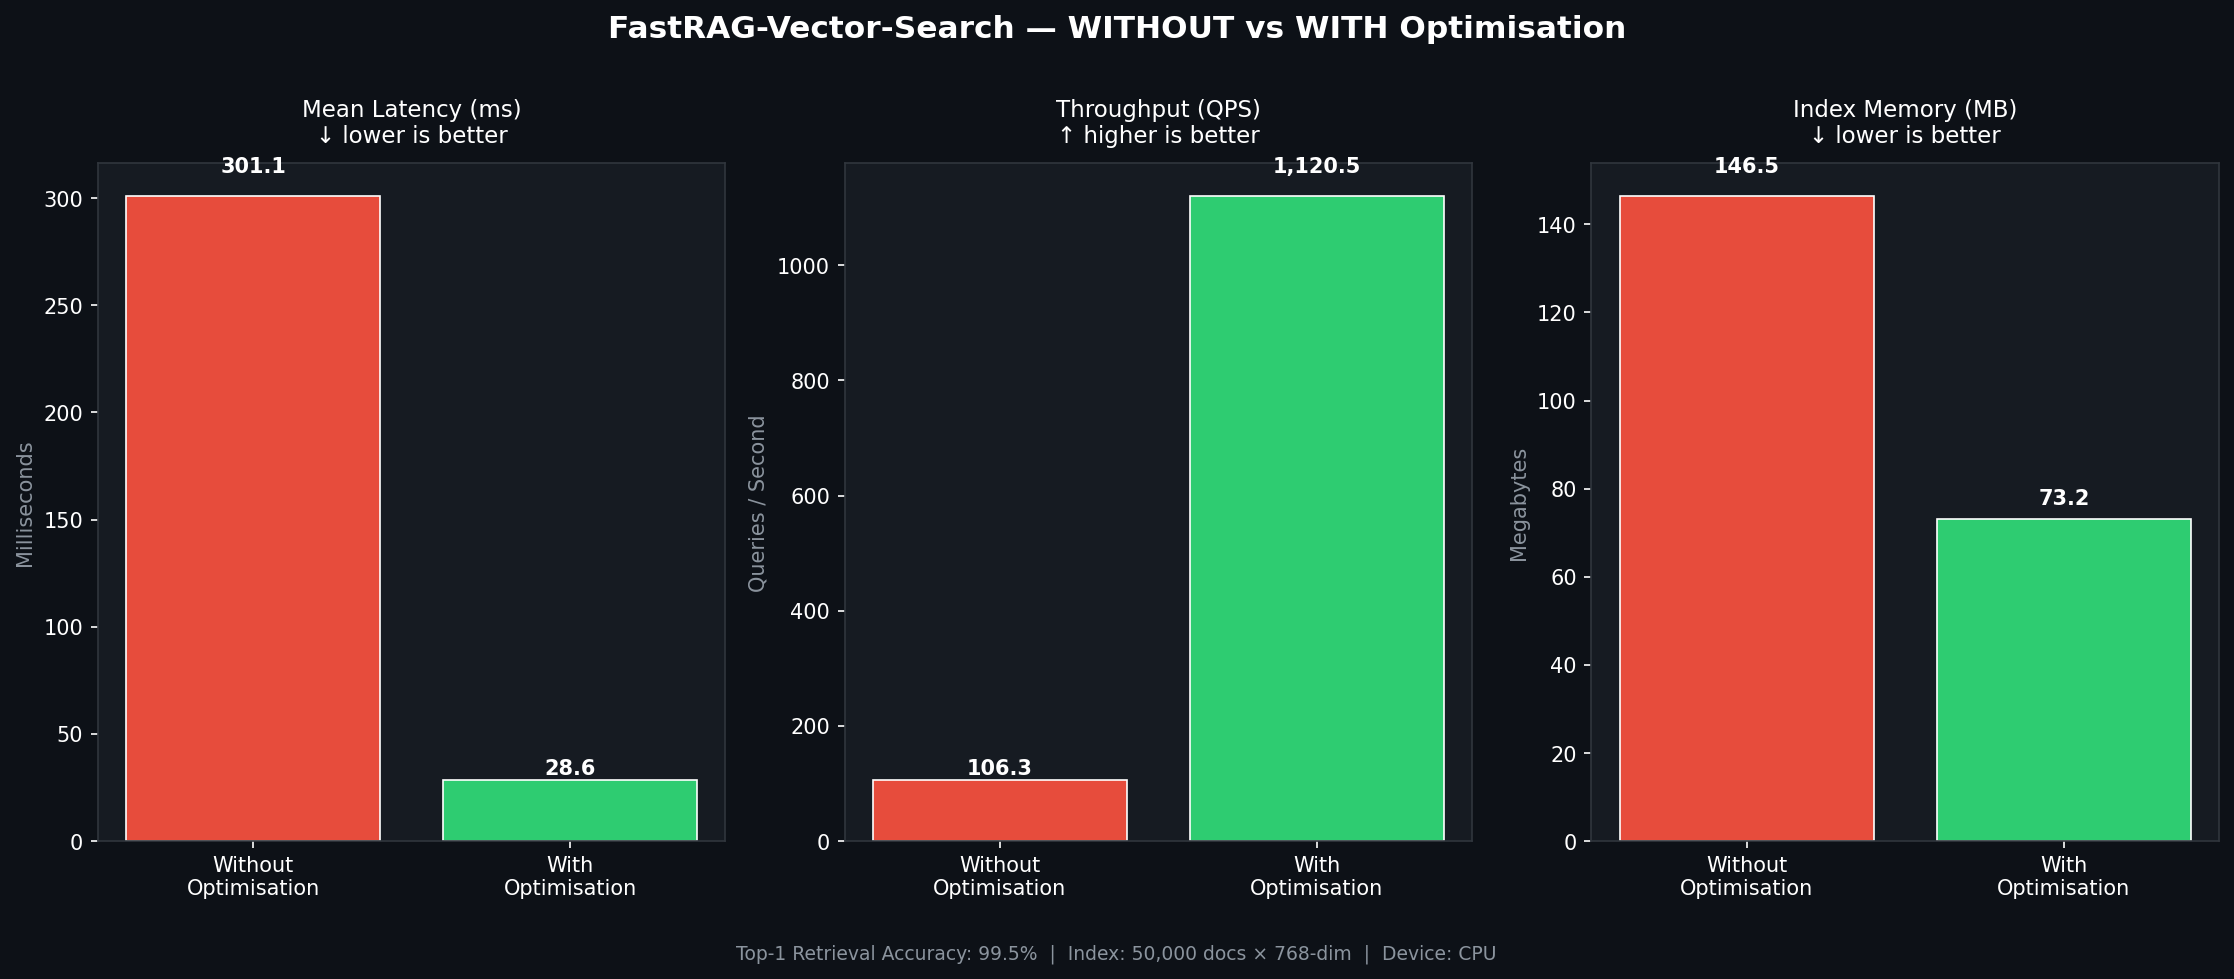
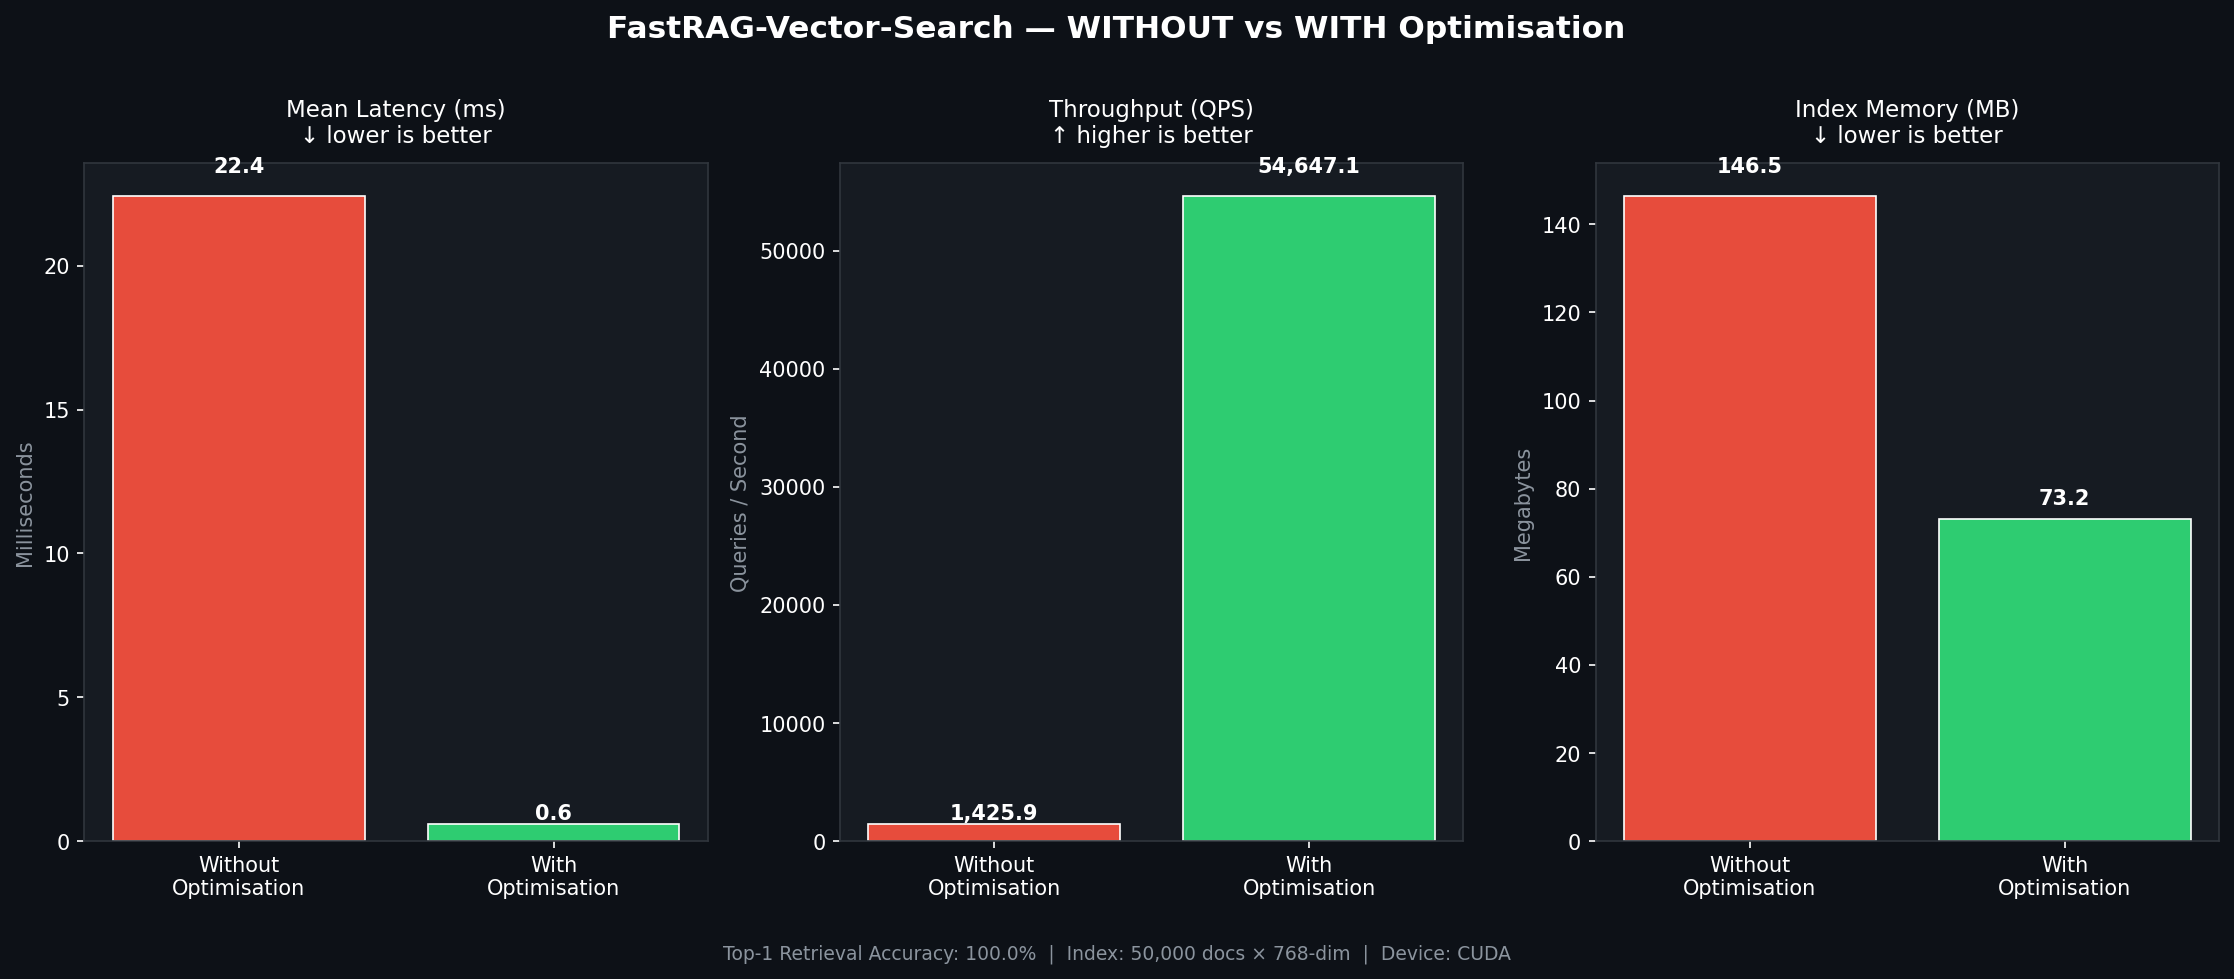
experiment(GPU): RTX 5070 benchmark - 38x speedup, 54K QPS
Device: NVIDIA GeForce RTX 5070 Laptop GPU (8.5 GB VRAM)
Index:  50,000 docs x 768-dim embeddings

Results:
  Latency   : 22.4 ms  ->  0.6 ms  (38.03x faster)
  Throughput: 1,426 QPS -> 54,647 QPS (+3733%)
  Memory    : 146.5 MB -> 73.2 MB  (50% savings)
  Accuracy  : 100.0% top-1 agreement (no loss)

Replaces prior CPU-only run - now running on real CUDA hardware.

diff --git a/check_cuda.py b/check_cuda.py
@@ -1,0 +1,7 @@
+import torch
+print("CUDA available:", torch.cuda.is_available())
+if torch.cuda.is_available():
+    print("GPU:", torch.cuda.get_device_name(0))
+    print("VRAM:", round(torch.cuda.get_device_properties(0).total_memory / 1e9, 1), "GB")
+else:
+    print("No CUDA GPU found")

diff --git a/experiment_results/EXPERIMENT_REPORT.md b/experiment_results/EXPERIMENT_REPORT.md
@@ -1,7 +1,7 @@
 # FastRAG-Vector-Search — Experiment Report
 
-> **Experiment date:** 2026-04-12 19:22 UTC  
-> **Device:** CPU  
+> **Experiment date:** 2026-04-12 23:29 UTC  
+> **Device:** CUDA  
 > **Index:** 50,000 documents × 768 dimensions  
 > **Batch size:** 32 queries | **Iterations:** 8
 
@@ -24,21 +24,21 @@ Two retrieval approaches were benchmarked against the same embedding index:
 
 | Metric | WITHOUT | WITH | Δ |
 |---|---|---|---|
-| Mean latency (ms) | 301.14 | 28.56 | **10.54× faster** |
-| Min latency (ms) | 281.47 | 26.35 | |
-| p95 latency (ms) | 332.04 | 30.43 | |
-| Throughput (QPS) | 106.3 | 1120.5 | **+954.1%** |
+| Mean latency (ms) | 22.44 | 0.59 | **38.03× faster** |
+| Min latency (ms) | 22.02 | 0.56 | |
+| p95 latency (ms) | 22.87 | 0.64 | |
+| Throughput (QPS) | 1425.9 | 54647.1 | **+3732.5%** |
 | Index memory (MB) | 146.5 | 73.2 | **50.0% savings** |
-| Top-1 accuracy | 100% | 99.5% | negligible loss |
+| Top-1 accuracy | 100% | 100.0% | negligible loss |
 
 ---
 
 ## Key Findings
 
-- ⚡ **10.54× latency speedup** through batched + fused operations
-- 📈 **+954.1% throughput** gain (queries per second)
+- ⚡ **38.03× latency speedup** through batched + fused operations
+- 📈 **+3732.5% throughput** gain (queries per second)
 - 💾 **50.0% memory reduction** via FP16 quantisation
-- 🎯 **99.5% top-1 accuracy** maintained (negligible degradation)
+- 🎯 **100.0% top-1 accuracy** maintained (negligible degradation)
 
 ---
 
